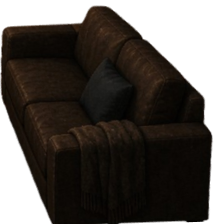
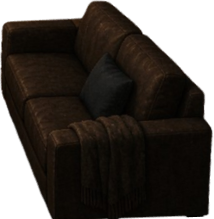
fixed colllision and y sorting issues

diff --git a/classes/interactable_object.py b/classes/interactable_object.py
@@ -30,6 +30,22 @@ class Furniture:
 
         # load collision detection rectangle if needed
         if self.collision:  
+            # get data from json file about collision
+            collision_height_scale = obj_data.get('collision_height_scale', None)
+            if collision_height_scale is None:
+                raise FurnitureCollisionError(f'Object {self.name} in room \
+                    {self.room_name} is missing collision height data in rooms.json.')
+            else:
+                collision_rect_width = scaled_width
+                collision_rect_height = self.sprite.get_height() * collision_height_scale
+                collision_rect_pos = (
+                obj_data['position'][0] * SCREEN_WIDTH,
+                obj_data['position'][1] * SCREEN_HEIGHT +  (scaled_height - collision_rect_height)
+            )
+            self._collision_rect = pygame.Rect(collision_rect_pos, 
+                                              (collision_rect_width, collision_rect_height)
+            )
+            '''
             collision_rect_width = scaled_width
             collision_rect_height = self.sprite.get_height() // 5 # about 20% of object height
 
@@ -40,6 +56,7 @@ class Furniture:
             self._collision_rect = pygame.Rect(collision_rect_pos, 
                                               (collision_rect_width, collision_rect_height)
             )
+            '''
 
         # define position for vertical sorting as rect bottom  if object is not dropped
         # on an other object, else the position should be initialised in the room the object is contained in.
@@ -114,7 +131,10 @@ class InteractableObject(Furniture):
         return f"InteractableObject(name={self.name}, room={self.room_name})"
     
 class FurnitureCollisionError(Exception):
-    '''Raised when there is an error with the collision rectangle of a furniture object. This can be caused by a missing or incorrect collision rectangle in the room data.'''
+    '''
+    Raised when there is an error with the collision rectangle of a furniture object. 
+    This can be caused by a missing or incorrect collision rectangle in the room data.
+    '''
     pass
 
 ### Nael Karimou - 5734316

diff --git a/classes/room.py b/classes/room.py
@@ -43,17 +43,21 @@ class Room:
         self._objects = {}
         for obj_name in room_data['objects']:
             if obj_name not in self._objects:
-                match room_data[obj_name]['class']:
-                    case 'Furniture':
-                        self._objects[obj_name] = Furniture(room_name, obj_name, room_data[obj_name])
-                    case 'InteractableObject':
-                        self._objects[obj_name] = InteractableObject(room_name, obj_name, room_data[obj_name])
-                    case 'Evidence':
-                        self._objects[obj_name] = Evidence(room_name, obj_name, room_data[obj_name])
-                    case _:
-                        # An error occured during loading, there is a typo in room.json. 
-                        print(f"Object '{obj_name}' not found in room data for room '{room_name}'. Error may come from json file.")
-
+                try:
+                    match room_data[obj_name]['class']:
+                        case 'Furniture':
+                            self._objects[obj_name] = Furniture(room_name, obj_name, room_data[obj_name])
+                        case 'InteractableObject':
+                            self._objects[obj_name] = InteractableObject(room_name, obj_name, room_data[obj_name])
+                        case 'Evidence':
+                            self._objects[obj_name] = Evidence(room_name, obj_name, room_data[obj_name])
+                        case _:
+                            # An error occured during loading, there is a typo in room.json. 
+                            print(f"Object '{obj_name}' not found in room data for room '{room_name}'. Error may come from json file.")
+                except KeyError:
+                    print(f"Object '{obj_name}' not found in room data for room '{room_name}'. Error may come from json file.")
+                except FurnitureCollisionError as e:
+                    print(e)
             else:
                 #if there is a duplicate of an object in rooms.json
                 continue
